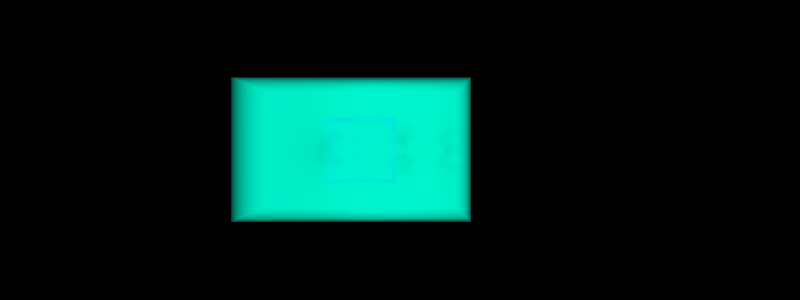
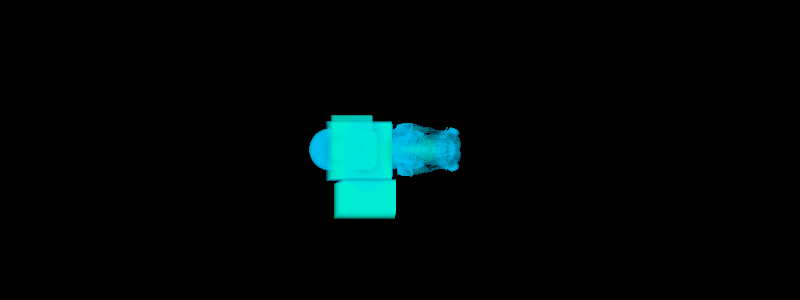
kd tree leaf fix

Changed region(s): [[0.2812, 0.24, 0.5938, 0.75]]

diff --git a/src/Construct.cpp b/src/Construct.cpp
@@ -15,7 +15,7 @@ std::vector<wBBox> KdTreeNode::splitWbbox(const wBBox &bbox, int axis, double po
     return splitbbox;
 }
 
-KdTreeNode::KdTreeNode(Grids_data& gridsData,std::vector<int> contri_grids,wBBox bbox, int depth):contribute_grids(std::move(contri_grids)) {
+KdTreeNode::KdTreeNode(Grids_data& gridsData,std::vector<int> contri_grids,wBBox bbox, int depth):contribute_grids(std::move(contri_grids)),rightChild(nullptr),leftChild(nullptr) {
     ///For construct: find the longest axis by bbox, find a pos to create two children
     ///For leaf: create a brick, store cells
     ///Can depth has some effect?

diff --git a/include/Construct.h b/include/Construct.h
@@ -25,14 +25,14 @@ public:
 
     ~KdTreeNode();
 //    bool intersect(Interaction &interaction, const Ray &ray) const;
-    [[nodiscard]] bool isLeaf() const { return leftChild!= nullptr && rightChild!= nullptr; }
+    [[nodiscard]] bool isLeaf() const { return leftChild== nullptr && rightChild== nullptr; }
 
     static std::vector<wBBox> splitWbbox(const wBBox& bbox, int axis, double pos);
 
     friend Kdtree;
 
 private:
-    int partition_axis=-1;
+    int partition_axis;
     double partition_pos;
     std::vector<int> contribute_grids;
     KdTreeNode *leftChild, *rightChild;

diff --git a/src/integrator.cpp b/src/integrator.cpp
@@ -5,7 +5,7 @@
 #include <utility>
 #include <cmath>
 
-#define OMP
+//#define OMP
 
 Integrator::Integrator(std::shared_ptr<Camera> cam,
                        std::shared_ptr<Scene> scene, int spp, Grids_data &gridsData, float iso_value,
